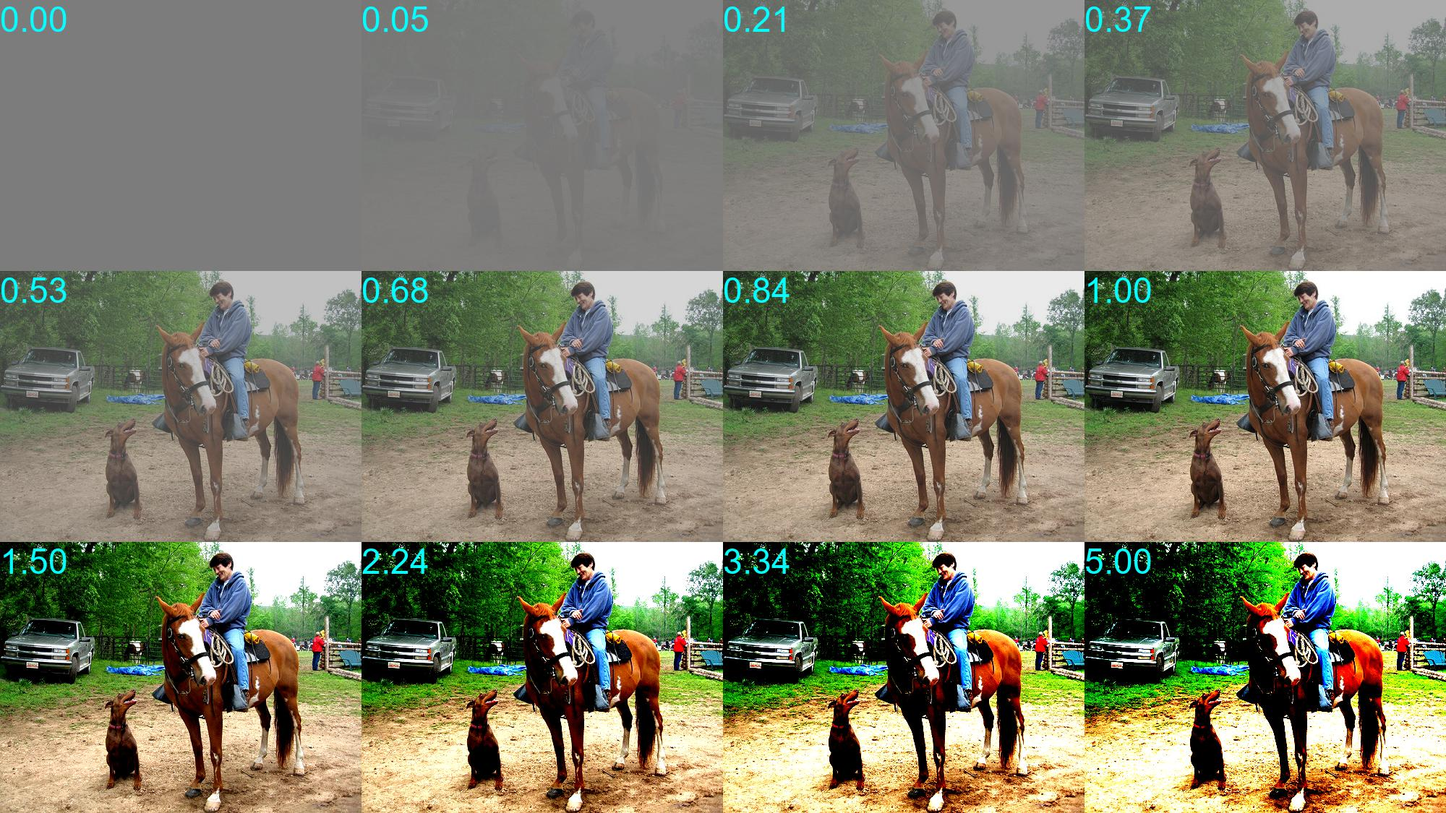
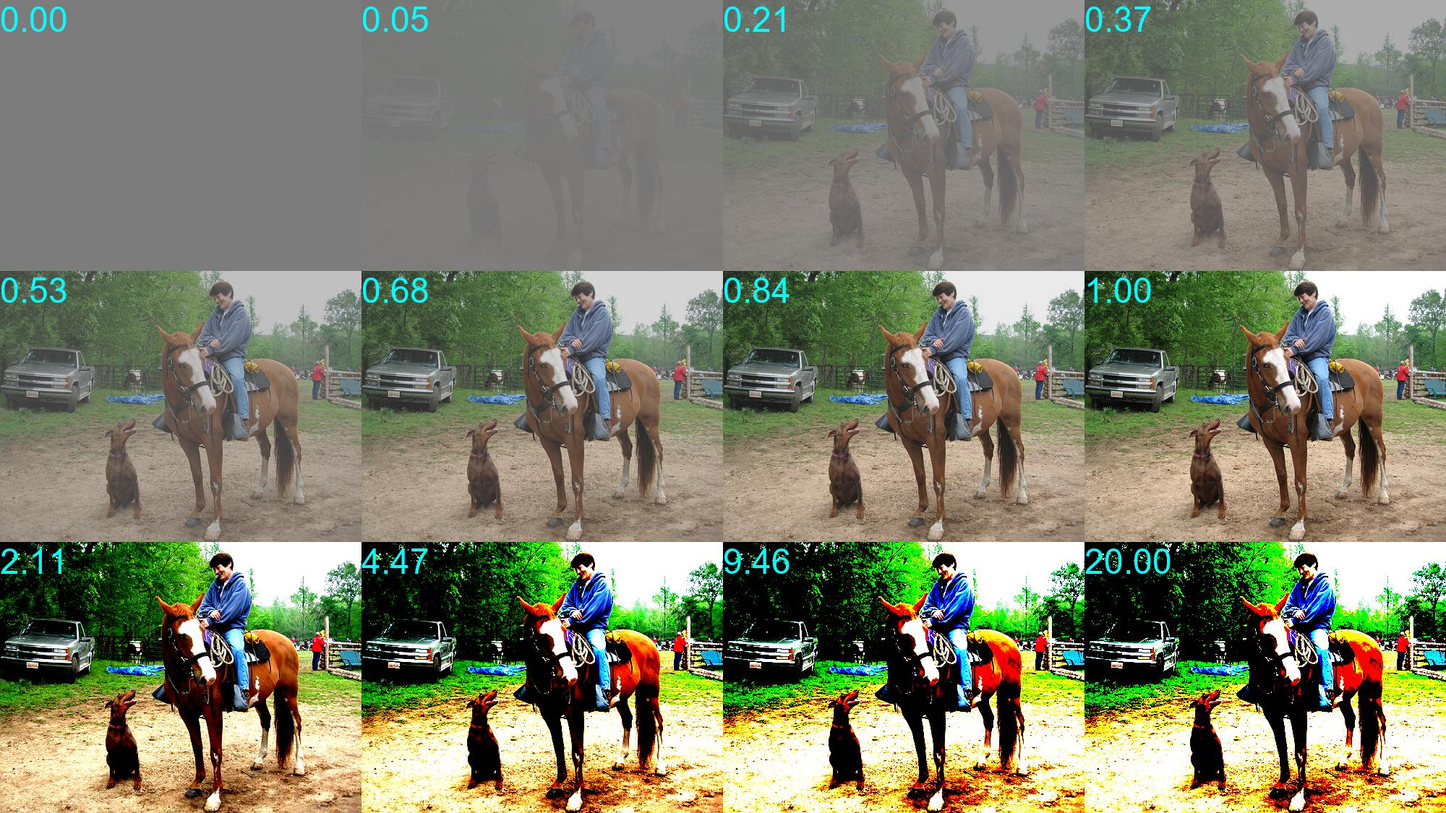
Updated parameter ranges for each function

Changed region(s): [[0.0, 0.6533, 1.0, 1.0]]

diff --git a/voc_only_logs/deg_tiledv2.py b/voc_only_logs/deg_tiledv2.py
@@ -107,73 +107,65 @@ ims_snois = []
 font = ImageFont.truetype(r"C:\Windows\Fonts\arial.ttf", 48)
 text_color = (0, 255, 255)
 
-# COLOR CODE
+# Color range
 r_col = np.linspace(0, 1, num=4, endpoint=False)
 r_col2 = np.geomspace(1, 10, num=8, endpoint=False)
+r_col = np.concatenate((r_col, r_col2))
 
-for i in r_col:
-    # f = os.path.join(r"voc_only_logs\degraded\{}_color_{:.2f}.jpg".format(os.path.split(inp_fn)[-1][:-4], i))
-    # color_adj(im, i).save(f)
-    img = color_adj(im, i)
-    draw = ImageDraw.Draw(img)
-    draw.text((0, 0), "{:.2f}".format(i), text_color, font=font)
-    ims_color.append(np.array(img))
-
-for i in r_col2:
-    # f = os.path.join(r"voc_only_logs\degraded\{}_color_{:.2f}.jpg".format(os.path.split(inp_fn)[-1][:-4], i))
-    # color_adj(im, i).save(f)
-    img = color_adj(im, i)
-    draw = ImageDraw.Draw(img)
-    draw.text((0, 0), "{:.2f}".format(i), text_color, font=font)
-    ims_color.append(np.array(img))
-
-
-# CONTRAST CODE #######################################################
+# Contrast range
 r_con = np.linspace(0.05, 1, num=6, endpoint=False)
-r_con2 = np.geomspace(1, 5, num=5)
+r_con2 = np.geomspace(1, 20, num=5)
+r_con = np.concatenate(([0], r_con, r_con2))
 
-img = contrast_adj(im, 0)
-draw = ImageDraw.Draw(img)
-draw.text((0, 0), "{:.2f}".format(0), text_color, font=font)
-ims_contr.append(np.array(img))
-
-for i in r_con:
-    # f = os.path.join(r"voc_only_logs\degraded\{}_contrast_{}.jpg".format(os.path.split(inp_fn)[-1][:-4], i))
-    # contrast_adj(im, i).save(f)
-    img = contrast_adj(im, i)
-    draw = ImageDraw.Draw(img)
-    draw.text((0, 0), "{:.2f}".format(i), text_color, font=font)
-    ims_contr.append(np.array(img))
-
-for i in r_con2:
-    # f = os.path.join(r"voc_only_logs\degraded\{}_contrast_{}.jpg".format(os.path.split(inp_fn)[-1][:-4], i))
-    # contrast_adj(im, i).save(f)
-    img = contrast_adj(im, i)
-    draw = ImageDraw.Draw(img)
-    draw.text((0, 0), "{:.2f}".format(i), text_color, font=font)
-    ims_contr.append(np.array(img))
-
-
-# BRIGHTNESS CODE #######################################################
+# Brightness range
 r_br = np.geomspace(0.1, 1, num=6, endpoint=False)
 r_br2 = np.geomspace(1, 30, num=5)
+r_br = np.concatenate(([0], r_br, r_br2))
 
-img = bright_adj(im, 0)
-draw = ImageDraw.Draw(img)
-draw.text((0, 0), "{:.2f}".format(0), text_color, font=font)
-ims_brigh.append(np.array(img))
+# Sharpness range
+r_sh = [i * 34 for i in range(0, 12)]
 
-for i in r_br:
-    # f = os.path.join(r"voc_only_logs\degraded\{}_brightness_{}.jpg".format(os.path.split(inp_fn)[-1][:-4], i))
-    # bright_adj(im, i).save(f)
-    img = bright_adj(im, i)
+# Gaussian Blur range
+# r_gblur = [i for i in range(0, 12)]
+r_gblur = np.linspace(0.5, 2.5, num=4, endpoint=False)
+r_gblur2 = np.linspace(3, 9, num=7)
+r_gblur = np.concatenate(([0], r_gblur, r_gblur2))
+
+# Imresize range
+r_imr = np.geomspace(0.04, 1, num=12)
+r_imr = r_imr[::-1]
+
+# Gaussian Noise range
+r_gau = np.geomspace(0.01, 10.24, num=11)
+r_gau = np.concatenate(([0], r_gau))
+
+# Salt and Pepper range
+r_snp = np.linspace(0.03, 0.5, num=6, endpoint=False)
+r_snp2 = np.linspace(0.5, 1, num=5)
+r_snp = np.concatenate(([0], r_snp, r_snp2))
+
+# Speckle Noise range
+r_spe = np.geomspace(0.03, 30, num=11)
+r_spe = np.concatenate(([0], r_spe))
+
+# COLOR CODE
+for i in r_col:
+    img = color_adj(im, i)
     draw = ImageDraw.Draw(img)
     draw.text((0, 0), "{:.2f}".format(i), text_color, font=font)
-    ims_brigh.append(np.array(img))
+    ims_color.append(np.array(img))
 
-for i in r_br2:
-    # f = os.path.join(r"voc_only_logs\degraded\{}_brightness_{}.jpg".format(os.path.split(inp_fn)[-1][:-4], i))
-    # bright_adj(im, i).save(f)
+
+# CONTRAST CODE
+for i in r_con:
+    img = contrast_adj(im, i)
+    draw = ImageDraw.Draw(img)
+    draw.text((0, 0), "{:.2f}".format(i), text_color, font=font)
+    ims_contr.append(np.array(img))
+
+
+# BRIGHTNESS CODE
+for i in r_br:
     img = bright_adj(im, i)
     draw = ImageDraw.Draw(img)
     draw.text((0, 0), "{:.2f}".format(i), text_color, font=font)
@@ -181,10 +173,7 @@ for i in r_br2:
 
 
 # SHARPNESS CODE
-for i in range(0, 12):
-    i = i * 75
-    # f = os.path.join(r"voc_only_logs\degraded\{}_sharpness_{}.jpg".format(os.path.split(inp_fn)[-1][:-4], i))
-    # sharp_adj(im, i).save(f)
+for i in r_sh:
     img = sharp_adj(im, i)
     draw = ImageDraw.Draw(img)
     draw.text((0, 0), "{:.2f}".format(i / 100. + 1), text_color, font=font)
@@ -192,22 +181,15 @@ for i in range(0, 12):
 
 
 # GAUSSIAN BLUR CODE
-for i in range(0, 12):
-    # f = os.path.join(r"voc_only_logs\degraded\{}_gblur_r{}.jpg".format(os.path.split(inp_fn)[-1][:-4], i))
-    # gblur(im, i).save(f)
+for i in r_gblur:
     img = gblur(im, i)
     draw = ImageDraw.Draw(img)
-    draw.text((0, 0), 'r' + str(i), text_color, font=font)
+    draw.text((0, 0), "{:.2f}".format(i), text_color, font=font)
     ims_gblur.append(np.array(img))
 
 
 # IMRESIZE CODE
-r_imr = np.geomspace(0.01, 1, num=12)
-r_imr = r_imr[::-1]
-
 for i in r_imr:
-    # f = os.path.join(r"voc_only_logs\degraded\{}_resize_{}.jpg".format(os.path.split(inp_fn)[-1][:-4], i))
-    # imresize(im, i).save(f)
     img = imresize(im, i)
     draw = ImageDraw.Draw(img)
     draw.text((0, 0), "{:.3f}".format(i), text_color, font=font)
@@ -215,16 +197,7 @@ for i in r_imr:
 
 
 # GAUSSIAN NOISE CODE
-r_gau = np.geomspace(0.01, 5, num=11)
-
-img = gnoise(numpy_im, 0)
-draw = ImageDraw.Draw(img)
-draw.text((0, 0), "{:.2f}".format(0), text_color, font=font)
-ims_gnois.append(np.array(img))
-
 for i in r_gau:
-    # f = os.path.join(r"voc_only_logs\degraded\{}_gnoise_{}.jpg".format(os.path.split(inp_fn)[-1][:-4], i))
-    # gnoise(numpy_im, i).save(f)
     img = gnoise(numpy_im, i)
     draw = ImageDraw.Draw(img)
     draw.text((0, 0), "{:.2f}".format(i), text_color, font=font)
@@ -232,16 +205,7 @@ for i in r_gau:
 
 
 # SALT AND PEPPER NOISE CODE
-r_snp = np.geomspace(0.03, 1, num=11)
-
-img = snpnoise(numpy_im, 0)
-draw = ImageDraw.Draw(img)
-draw.text((0, 0), "{:.2f}".format(0), text_color, font=font)
-ims_snpno.append(np.array(img))
-
 for i in r_snp:
-    # f = os.path.join(r"voc_only_logs\degraded\{}_snpnoise_{}.jpg".format(os.path.split(inp_fn)[-1][:-4], i))
-    # snpnoise(numpy_im, i).save(f)7
     img = snpnoise(numpy_im, i)
     draw = ImageDraw.Draw(img)
     draw.text((0, 0), "{:.2f}".format(i), text_color, font=font)
@@ -249,16 +213,7 @@ for i in r_snp:
 
 
 # SPECKLE NOISE CODE
-r_spe = np.geomspace(0.03, 100, num=11)
-
-img = snoise(numpy_im, 0)
-draw = ImageDraw.Draw(img)
-draw.text((0, 0), "{:.2f}".format(0), text_color, font=font)
-ims_snois.append(np.array(img))
-
 for i in r_spe:
-    # f = os.path.join(r"voc_only_logs\degraded\{}_snoise_{}.jpg".format(os.path.split(inp_fn)[-1][:-4], i))
-    # snoise(numpy_im, i).save(f)
     img = snoise(numpy_im, i)
     draw = ImageDraw.Draw(img)
     draw.text((0, 0), "{:.2f}".format(i), text_color, font=font)

diff --git a/voc_only_logs/apply_all_deg_methods_dir.py b/voc_only_logs/apply_all_deg_methods_dir.py
@@ -115,7 +115,7 @@ r_col = np.concatenate((r_col, r_col2))
 
 # Contrast range
 r_con = np.linspace(0.05, 1, num=6, endpoint=False)
-r_con2 = np.geomspace(1, 5, num=5)
+r_con2 = np.geomspace(1, 20, num=5)
 r_con = np.concatenate(([0], r_con, r_con2))
 
 # Brightness range
@@ -123,37 +123,36 @@ r_br = np.geomspace(0.1, 1, num=6, endpoint=False)
 r_br2 = np.geomspace(1, 30, num=5)
 r_br = np.concatenate(([0], r_br, r_br2))
 
-# Brightness sqrt range
-r_br_sqrt = [np.sqrt(2) ** (i - 6) for i in range(0, 11)]
-r_br_sqrt = np.concatenate(([0], r_br_sqrt))
-
 # Sharpness range
-r_sh = [i*75 for i in range(0, 12)]
+r_sh = [i * 34 for i in range(0, 12)]
 
 # Gaussian Blur range
-r_gblur = [i for i in range(0, 12)]
+# r_gblur = [i for i in range(0, 12)]
+r_gblur = np.linspace(0.5, 2.5, num=4, endpoint=False)
+r_gblur2 = np.linspace(3, 9, num=7)
+r_gblur = np.concatenate(([0], r_gblur, r_gblur2))
 
 # Imresize range
-r_imr = np.geomspace(0.01, 1, num=12)
+r_imr = np.geomspace(0.04, 1, num=12)
 r_imr = r_imr[::-1]
 
 # Gaussian Noise range
-r_gau = np.geomspace(0.01, 5, num=11)
+r_gau = np.geomspace(0.01, 10.24, num=11)
 r_gau = np.concatenate(([0], r_gau))
 
 # Salt and Pepper range
-r_snp = np.geomspace(0.03, 1, num=11)
-r_snp = np.concatenate(([0], r_snp))
+r_snp = np.linspace(0.03, 0.5, num=6, endpoint=False)
+r_snp2 = np.linspace(0.5, 1, num=5)
+r_snp = np.concatenate(([0], r_snp, r_snp2))
 
 # Speckle Noise range
-r_spe = np.geomspace(0.03, 100, num=11)
+r_spe = np.geomspace(0.03, 30, num=11)
 r_spe = np.concatenate(([0], r_spe))
 
 # with open(os.path.join(inp_d, 'LookupTable.txt'), 'w') as f:
 #     f.write('Color (Saturation) Parameters\n' + str(r_col) + '\n\n')
 #     f.write('Contrast Parameters\n' + str(r_con) + '\n\n')
 #     f.write('Brightness Parameters\n' + str(r_br) + '\n\n')
-#     f.write('Brightness (using sqrt space) Parameters\n' + str(r_br_sqrt) + '\n\n')
 #     f.write('Sharpness Parameters\n' + str(r_sh) + '\n\n')
 #     f.write('Gaussian Blur Parameters\n' + str(r_gblur) + '\n\n')
 #     f.write('Image Resize Parameters\n' + str(r_imr) + '\n\n')
@@ -182,11 +181,6 @@ for fn in ims:
     # BRIGHTNESS CODE
     for e, i in enumerate(r_br):
         f = os.path.join(ofn, "{}_brightness_{}.jpg".format(os.path.split(fn)[-1][:-4], e))
-        bright_adj(im, i).save(f)
-
-    # BRIGHTNESS CODE using "Square Root space"
-    for e, i in enumerate(r_br_sqrt):
-        f = os.path.join(ofn, "{}_brightness_sqrt_{}.jpg".format(os.path.split(fn)[-1][:-4], e))
         bright_adj(im, i).save(f)
 
     # SHARPNESS CODE
